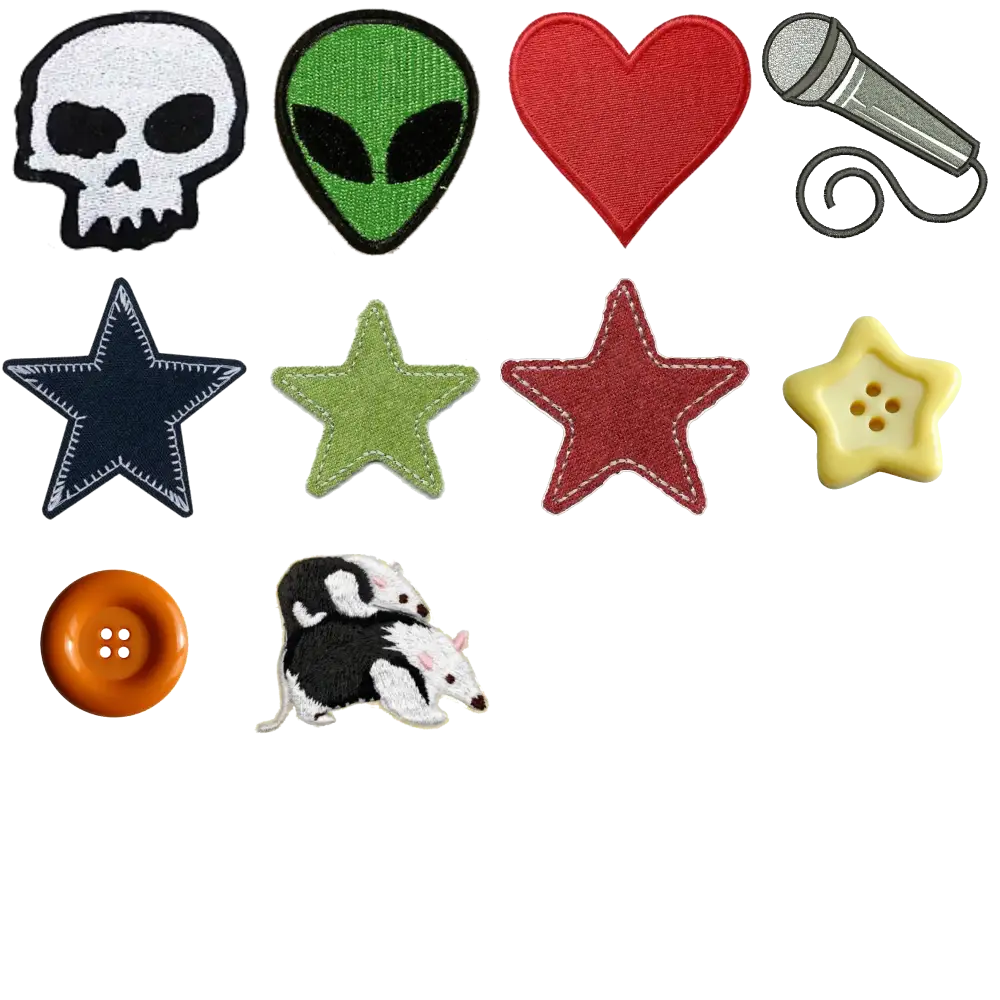
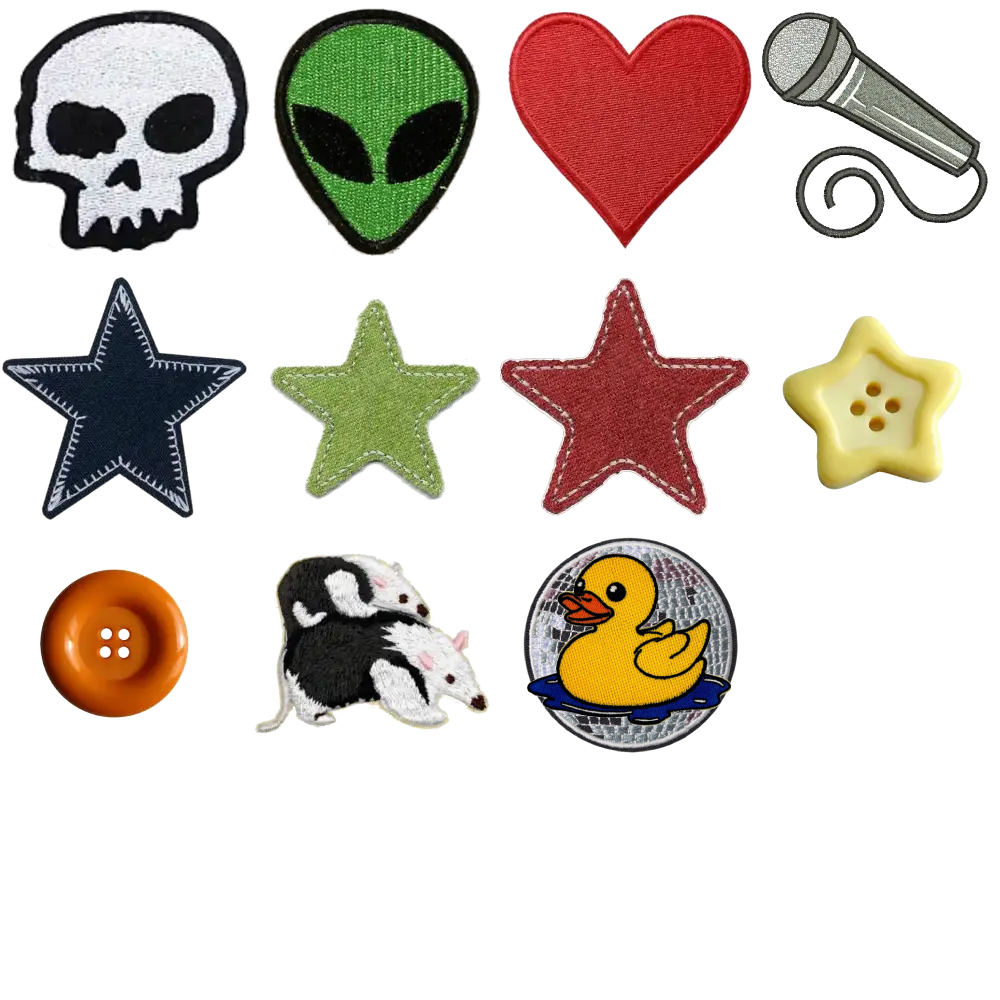
Updated home page with new show info. Added instagram post with social media embed.

Changed region(s): [[0.527, 0.527, 0.744, 0.775]]

diff --git a/src/Body.jsx b/src/Body.jsx
@@ -1,6 +1,7 @@
 import {useState} from "react";
 import Carousel from "react-multi-carousel";
 import "react-multi-carousel/lib/styles.css";
+import { InstagramEmbed } from 'react-social-media-embed';
 import { Link } from "react-router-dom";
 import logo from '/src/404logo.png';
 
@@ -37,13 +38,17 @@ function Body(){
                     <img id="home-skull" className="patch" src="images/trans.webp" alt="" />
                     <img id="home-greenstar" className="patch" src="images/trans.webp" alt="" />
                     <img id="uppatch" src="/images/bluepatchfinal.webp" alt="" height={'300px'}/>
-                    <h1 className="upcoming-title">404 SUMMER SHOWS -  <br /> SUNBURNT SESSIONS </h1> 
-                    <h2 className="summthanks">THANKS FOR ROCKING WITH US! STAY TUNED FOR MORE SUNBURNT JAMS...</h2>
-                    <p className="dmphotos">If you have any photos or videos from SUNBURNT SESSION I, send us an email at
-                        404delsol@gmail.com, or DM us on <a href="https://www.instagram.com/404delsol.uci/" target="blank">instagram!</a> Be sure to include your name so we can credit you!
-                    </p>
+                    <h1 className="upcoming-title">404 SUMMER SHOWS -  <br /> SUNBURNT SESSION II</h1> 
                     <img id="home-alien" className="patch" src="images/trans.webp" alt="" />
                     <div className="upcoming-card">
+                        <img className="flyer-img" src="/images/summer2.webp" height={"700px"} alt="" />
+                    </div>
+                    <h2 className="upcoming-title">COME FOR THE MUSIC, STAY FOR THE BEV <br />☆ <br />TAKE A SIP WITH DISCO DUCK COFFEE AT SUNBURNT SESSION II</h2>
+                    <img id="discoduck" src="images/trans.webp" alt="" />
+                    <div className="insta-embed">
+                        <div style={{ display: 'flex', justifyContent: 'center' }}>
+                            <InstagramEmbed url="https://www.instagram.com/p/DM8E8aIxhtB/?img_index=1" width={328}/>
+                        </div>
                     </div>
                     <img id="home-anteaters" className="patch" src="images/trans.webp" alt="" />
                     <div className="apps-closed">
@@ -66,6 +71,10 @@ function Body(){
 
 /*
 <h1 className="upcoming-title">UPCOMING:</h1> 
+
+<p className="dmphotos">If you have any photos or videos from SUNBURNT SESSION I, send us an email at
+                        404delsol@gmail.com, or DM us on <a href="https://www.instagram.com/404delsol.uci/" target="blank">instagram!</a> Be sure to include your name so we can credit you!
+ </p>
 
 <div className="carousel-container">
                 

diff --git a/src/Body.css b/src/Body.css
@@ -271,7 +271,7 @@
 }
 
 .upcoming-card{
-    display: none;
+    display: flex;
     flex-direction: column;
     justify-content: center;
     align-items: center;
@@ -476,6 +476,28 @@
     width: 20rem;
 }
 
+.insta-embed{
+    background-color: rgb(160, 75, 160) ;
+    border-radius: 15px;
+    align-items: center;
+    justify-content: center;
+    padding-top: 1rem;
+    padding-left: 1rem;
+    padding-right: 1rem;
+    padding-bottom: .2rem;
+}
+
+#discoduck{
+    position: absolute;
+    z-index: -1;
+    width: 250px;
+    height: 250px;
+    background: url(/images/patchsheet1.webp) -500px -515px;
+    left: 10%;
+    top: 50%;
+    rotate: 5deg;
+}
+
 .spotify-info{
     font-size: 2rem;
     width: 80%;
@@ -532,6 +554,13 @@
 @media(max-width: 1280px){
     #uppatch{
         height: 200px;
+    }
+
+    #discoduck{
+        background-size: 650px 650px;
+        height: 175px;
+        width: 175px;
+        background-position: -320px -350px;
     }
 
     #home-skull{
@@ -658,6 +687,10 @@
 @media(max-width: 700px){
     #uppatch{
         height: 150px;
+    }
+
+    #discoduck{
+        top: 51%;
     }
     
     #home-skull{
